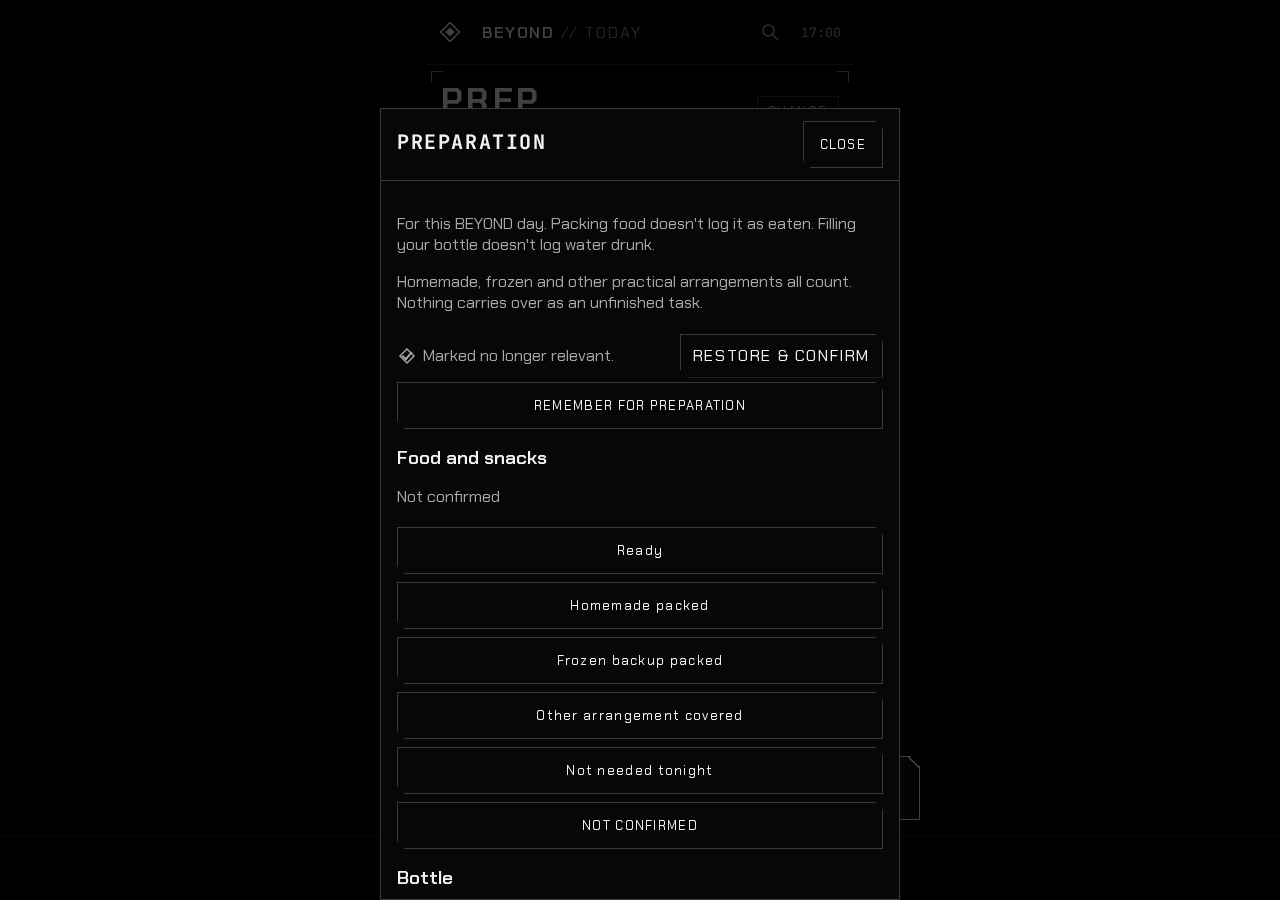
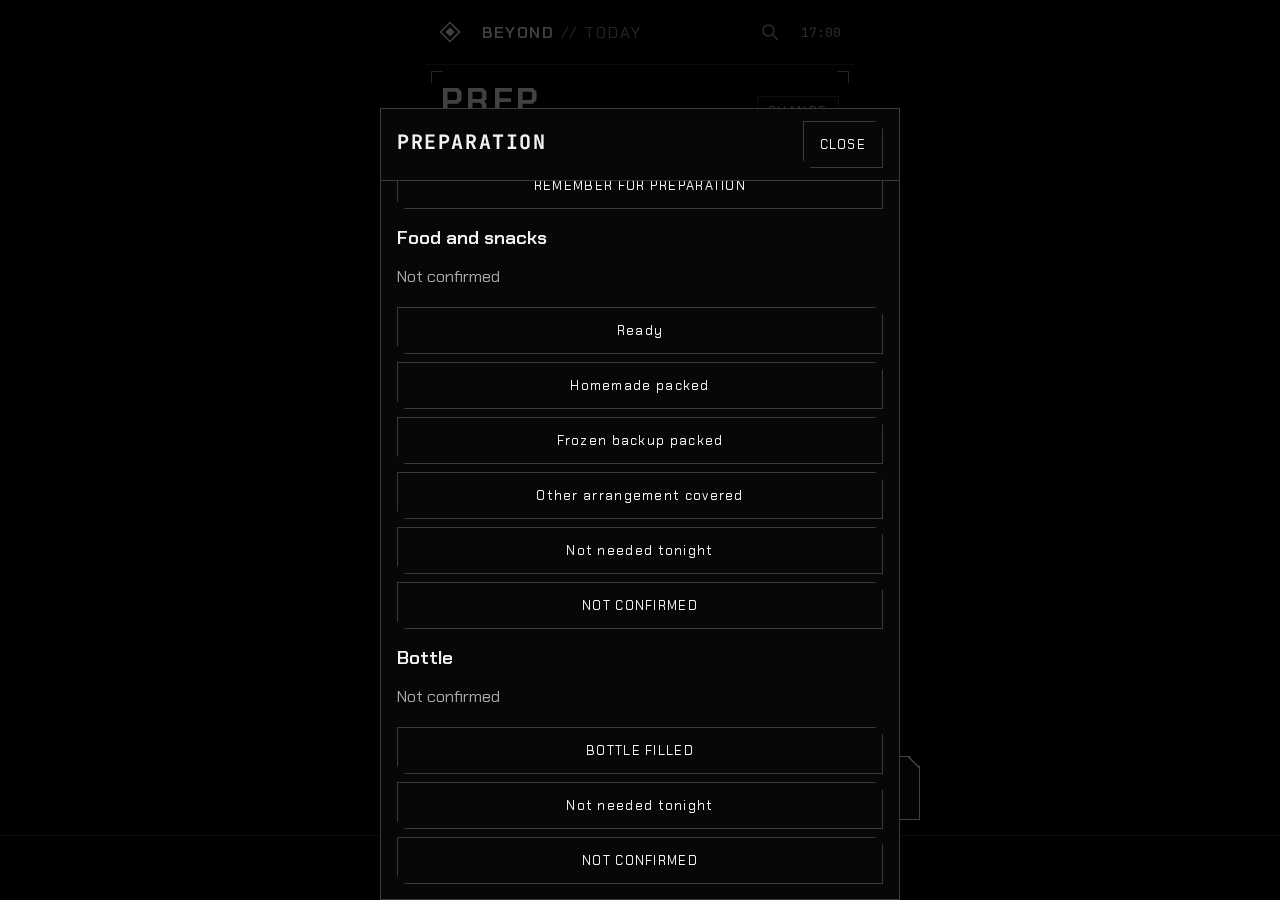
docs(memory): refresh combined-master acceptance and landscape evidence

diff --git a/docs/screenshots/memory-001/README.md b/docs/screenshots/memory-001/README.md
@@ -1,6 +1,6 @@
 # MEMORY-001 — built-PWA acceptance
 
-Actual production build from source `8da2c0e23fcbf54d6410276f89715fc4bf6495d4`, captured
+Actual production build from combined source `f58d890d1ee5fd5b22eae92898884ee9f3d966e2`, captured
 2026-10-27 with synthetic records only. No owner backup or personal data was used.
 
 Chromium, America/Chicago, Tue, Oct 27 at 17:00; reduced motion. Viewports 360×800, 390×844,
@@ -28,6 +28,9 @@ horizontal overflow. Fresh isolated contexts are used for each viewport.
 Phone captures: [PREP](prep-360.png), [manager](inspect-360.png),
 [irrelevant](irrelevant-360.png), [recovery](recovery-360.png). Matching 390/844/1280 files show
 the same journey at the other sizes. These are real viewport captures, not composite designs.
+Named content is scrolled into view before capture. The initial landscape manager image retained
+an old scroll position; it and the recovery frame were recaptured with visible content. This
+does not claim the app automatically moves focus to a saved fact.
 
 ## Verification and test history
 
@@ -43,6 +46,10 @@ the same journey at the other sizes. These are real viewport captures, not compo
   expectations (new view heading, existing MY MEALS memory alias); unchanged Personal
   Understanding target-return timeout passes in the focused follow-up. Assertions/timeouts and
   workflow gates were not weakened. Final full verification and exact-head review are in #303.
+- Master gained the already-approved SLEEP-ENGINE-001 (#300, `c3338a0`) during final checks.
+  It was merged, retaining both checkpoint histories; no Engine diff remains for MEMORY against
+  current master. The pre-integration final run was stopped for this integration, not claimed
+  green. The full four-size offline/reload/backup journey above was rerun on the combined build.
 - Initial manual harness used an old preview process (page-load timeout); a fresh preview
   resolved it. Async write waits and clearing the retained menu query before restore preview
   were corrected in the harness. The final four-size journey above passes.

diff --git a/docs/agent/MEMORY-001.md b/docs/agent/MEMORY-001.md
@@ -4,7 +4,7 @@
   operator-authored prep/recovery loop, preferring additive events in existing persistence.
 - **Lane / Builder:** PROTECTED additive event/command contract; Codex. No Engine edits.
 - **Baseline:** freshly fetched `ab3508887af7650d6e4180d815e048fd2b48b8f2` (#302 merged/deployed).
-- **Branch / PR:** `codex/memory-001`; [#303](https://github.com/gavinlohnes/neo-beyond-lohnes/pull/303), WIP published early. #300 remains Claude's.
+- **Branch / PR:** `codex/memory-001`; [#303](https://github.com/gavinlohnes/neo-beyond-lohnes/pull/303), WIP published early. #300 was initially separate; it merged during verification and is integrated as current master `c3338a0`. MEMORY changes no Engine behavior relative to that master.
 
 ## Model and surfaces
 
@@ -72,3 +72,9 @@ Independent WIP BLOCK `0401fa4` found PREP day remount lost a global-memory draf
 parent and day-owned prep reads resolve it; ended/null/new-day regression passes. Independent
 corrective PASS at `b9ea7ae` (node probes 19/19) is persisted in #303. Final evidence head review,
 full verification and required CI results are recorded in #303 before Gavin's merge decision.
+
+Mainline integration: #300 merged while final checks were running. Combined head `f58d890`
+builds successfully; actual four-size offline/reload/context/backup acceptance rerun passes on
+that build. Both checkpoint histories are retained. The Engine changes belong to approved
+master, not MEMORY; final review and CI use the integrated head. Landscape captures were
+reframed to their named content after the reviewer flagged a retained-scroll image.
